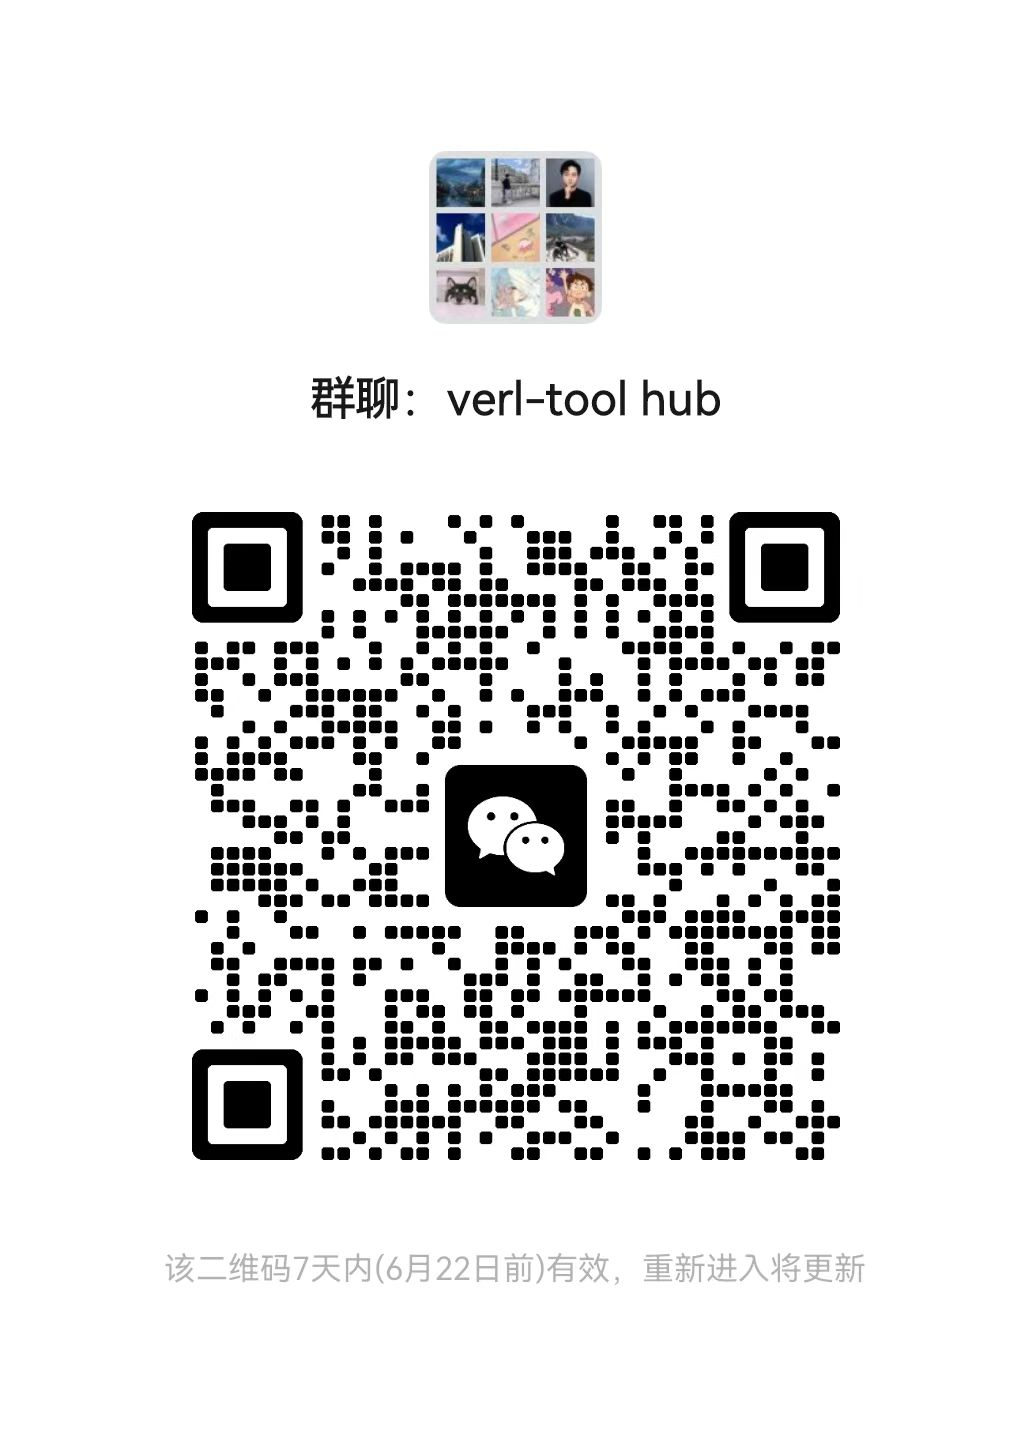
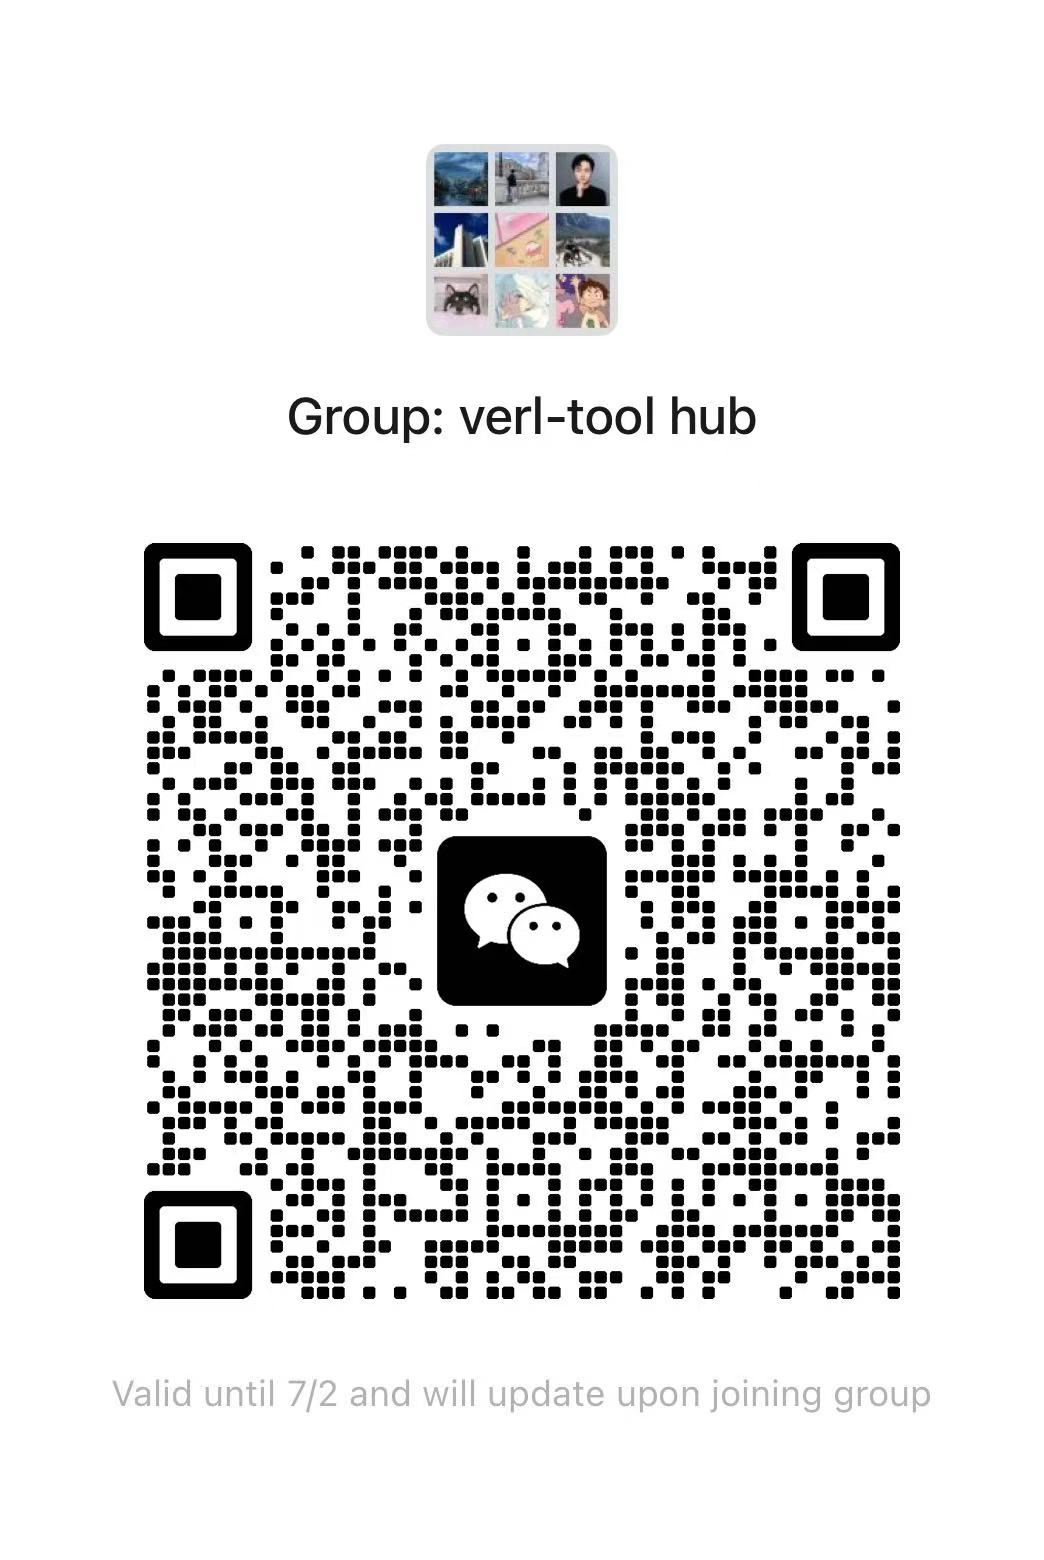
update wechat group

Changed region(s): [[0.1242, 0.3438, 0.8691, 0.8438], [0.2793, 0.0938, 0.7449, 0.3125], [0.1242, 0.875, 0.9001, 0.9062]]

diff --git a/assets/docs/asyncRL.md b/assets/docs/asyncRL.md
@@ -1,8 +1,8 @@
 ## Trajectory-level Asynchronous Reinforcement Learning
 
-VerlTool now officially supports Trajectory-Level asynchronous rollout by setting `rollout.mode='async'`, which speeds up the rollout generation with tool calling by at least 2x! 
-- `rollout.mode='sync'`: The default mode, where the rollout will only call the tool servers after the first turn generations of all the examples in the batch are completed.
-- `rollout.mode='async'`: The new mode, where each trajectory is independently processed, allowing for tool calls to be made as soon as the first turn generation is available. This significantly reduces the waiting time for tool calls, especially in large batches.
+VerlTool now officially supports Trajectory-Level asynchronous rollout by setting `actor_rollout_ref.rollout.mode='async'`, which speeds up the rollout generation with tool calling by at least 2x! 
+- `actor_rollout_ref.rollout.mode='sync'`: The default mode, where the rollout will only call the tool servers after the first turn generations of all the examples in the batch are completed.
+- `actor_rollout_ref.rollout.mode='async'`: The new mode, where each trajectory is independently processed, allowing for tool calls to be made as soon as the first turn generation is available. This significantly reduces the waiting time for tool calls, especially in large batches.
 
 ### Comparison
 For a simple math TIR RL training where there are 2048 trajectories in a batch, training 1.5B Qwen-Math on 4 H100 GPUs, the rollout time (excluding other RL operations) is as follows:
